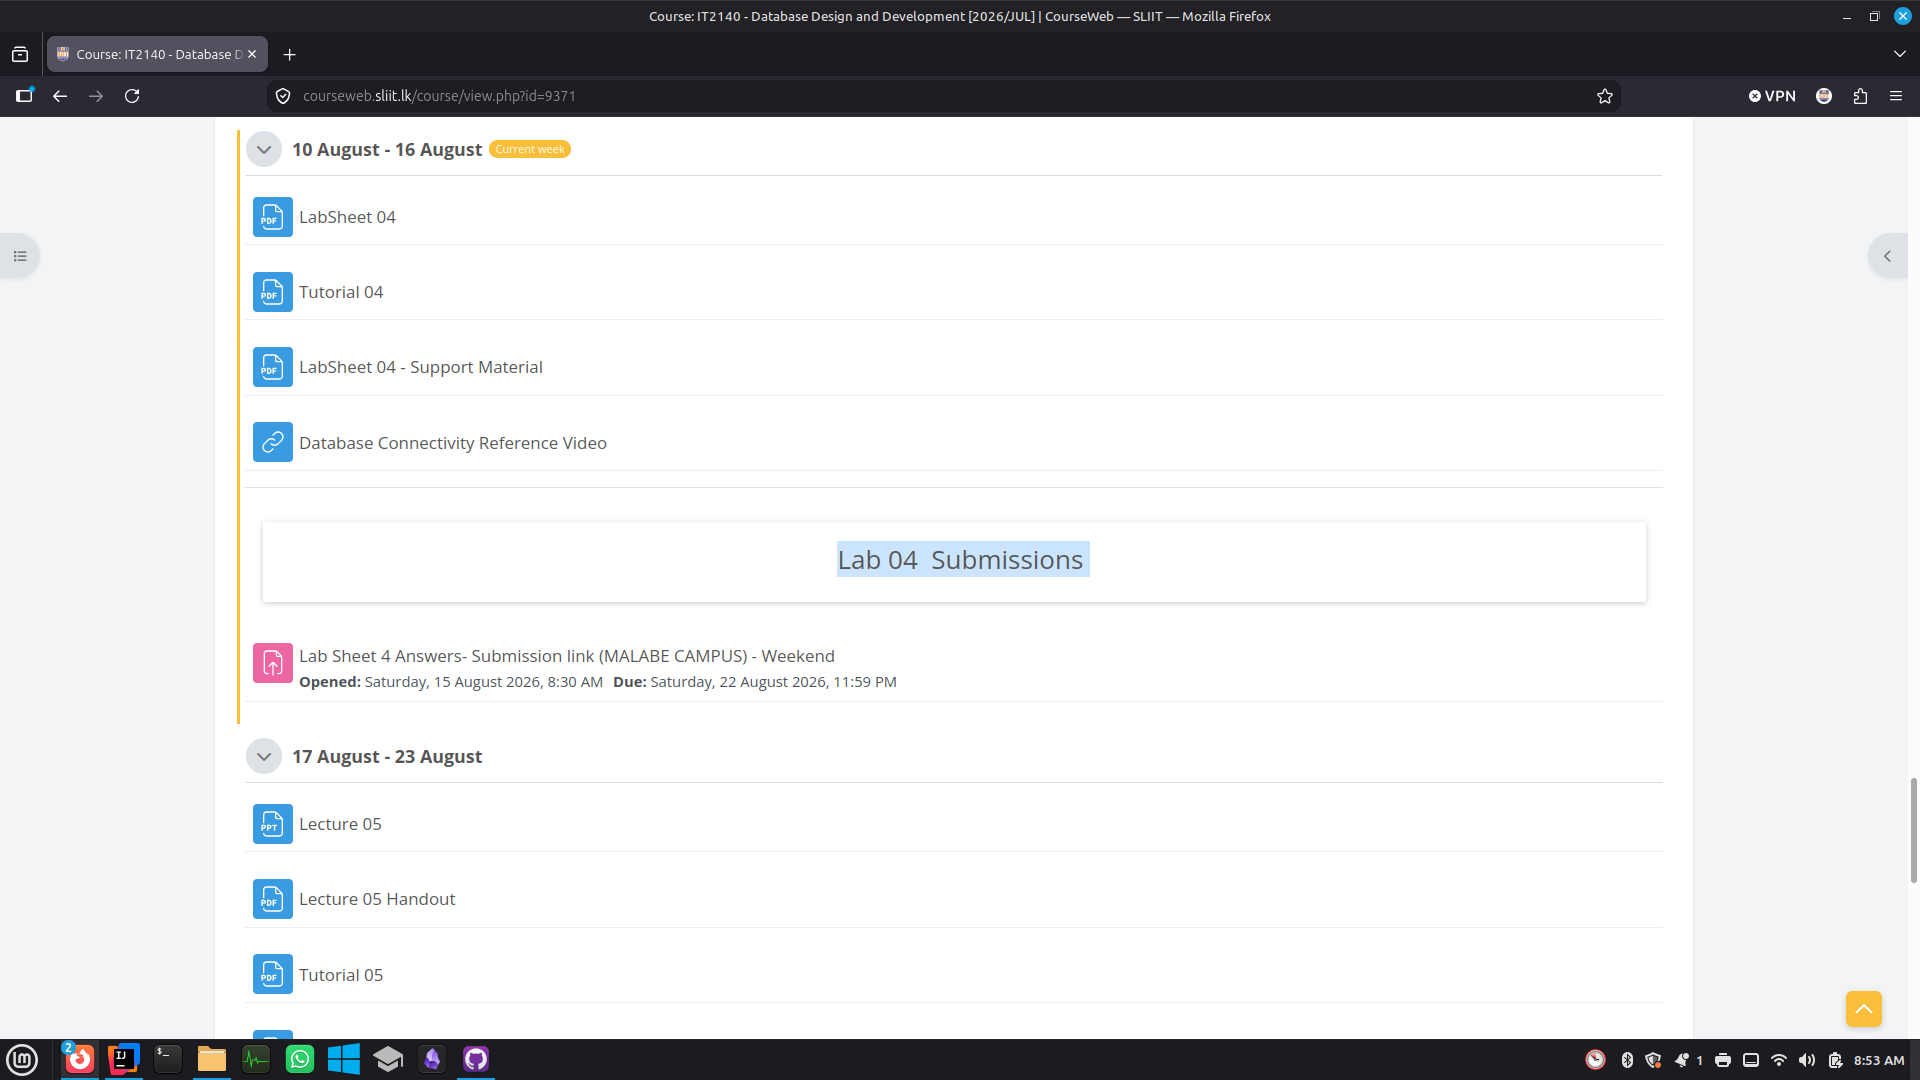
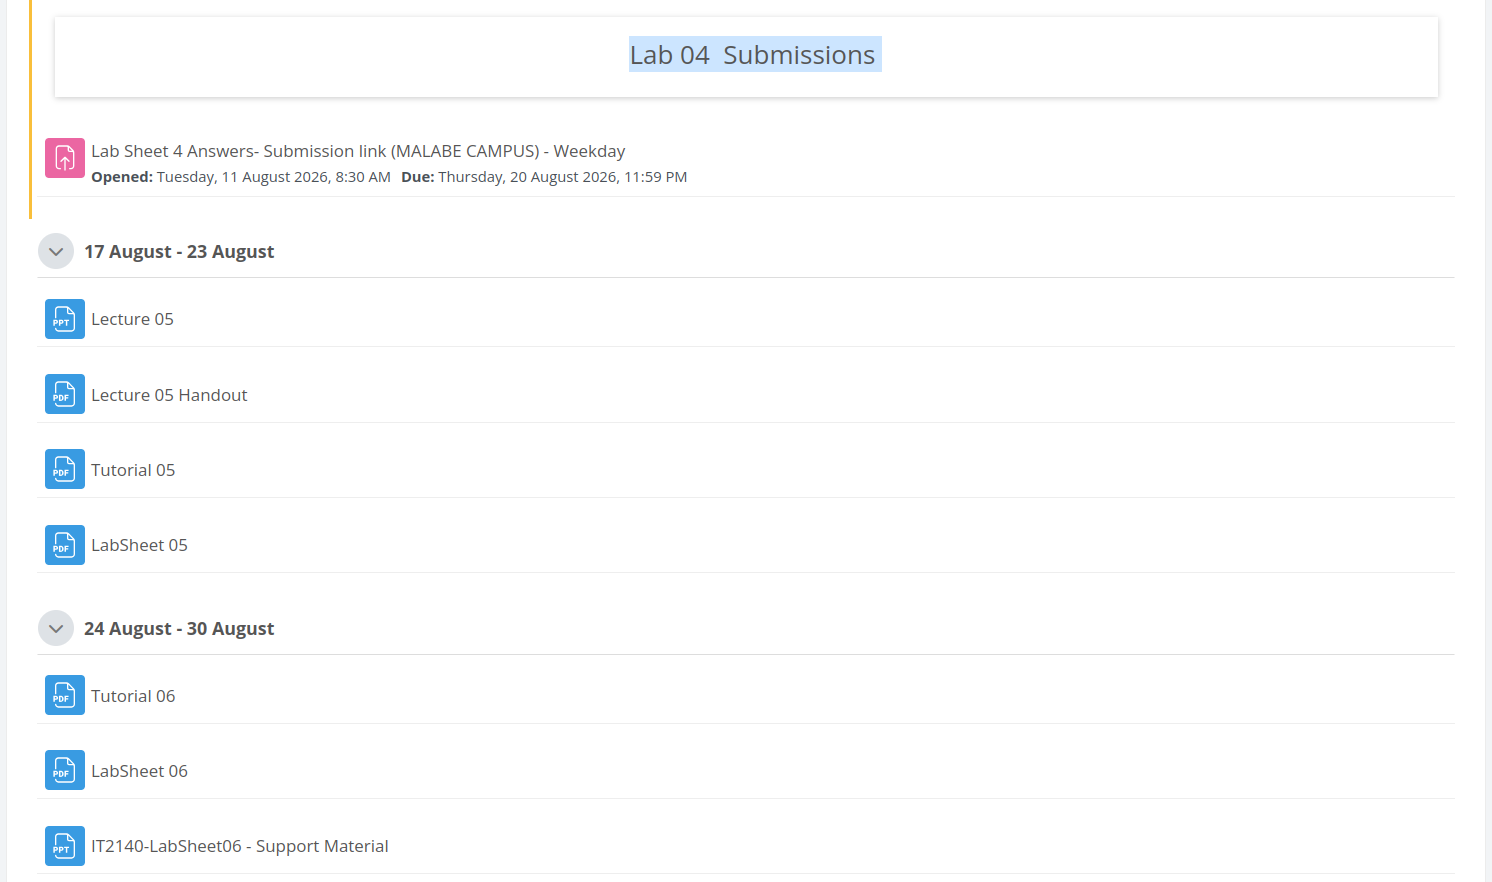
docs: finalize README with comprehensive setup guide and visual assets
Integrated step-by-step installation instructions, configuration details, and resized HTML image embeds for a professional presentation. Added final UI screenshots to the assets directory to guide the user onboarding flow.

diff --git a/README.md b/README.md
@@ -1,32 +1,73 @@
 # SLIIT Courseweb Module Cleaner
 
-A lightweight, context-aware userscript designed to clean up the SLIIT Moodle (Courseweb) interface. It automatically filters out irrelevant modules, assignments, and announcements meant for other campuses or weekday groups, leaving you with a distraction-free dashboard.
+A context-aware userscript designed to optimize the SLIIT Moodle (Courseweb) interface. It automatically filters out irrelevant modules, assignments, and announcements meant for unassigned campuses or batches, providing a distraction-free learning environment.
 
-## Visual Comparison
+## Visual Overview
 
-| Before (Cluttered) | After (Clean) |
+| Before (Cluttered) | After (Cleaned) |
 | :---: | :---: |
-| ![Before Filter](assets/before.png) | ![After Filter](assets/after.png) |
+| <img src="assets/before.png" width="400"> | <img src="assets/after.png" width="400"> |
 
-## Core Features
+## Key Features
 
-* **Smart Filtering:** Hides activities belonging to other centers (Metro, Kandy, Matara, Northern Uni) and Weekday batches.
-* **Preserves Structure:** Keeps general course announcements, shared materials, and section headers strictly visible.
-* **Targeted Whitelisting:** Protects specific Weekend group resources (e.g., `Y2.S1.WE.IT.0301`).
-* **Notice Protector:** Ensures critical alerts, rescheduled labs, and general announcements remain visible.
+* **Smart Filtering:** Hides activities belonging to unselected centers (Metro, Kandy, Matara, Northern Uni) and batch schedules (Weekday/Weekend).
+* **Ghost Mode:** An optional soft-filter that dims irrelevant items (25% opacity) instead of completely removing them from the DOM.
+* **Native UI Integration:** Features a fully integrated, Moodle-themed configuration panel accessible directly from the Courseweb interface.
+* **Notice Protector:** Ensures critical alerts, rescheduled labs, and general shared materials remain strictly visible regardless of filter settings.
+* **Silent Auto-Updates:** Leverages Tampermonkey's background update API to seamlessly deliver new features and bug fixes.
 
-## Installation Instructions
+---
 
-1. Install the [Tampermonkey](https://www.tampermonkey.net/) extension for your browser.
-2. Click **[HERE](https://github.com/dulithdivisekara/sliit-courseweb-cleaner/raw/refs/heads/main/sliit-courseweb-cleaner.user.js)** to install the script.
-3. Click **Install** when the Tampermonkey tab opens.
-4. Refresh your Courseweb page.
+## Installation Guide
 
-## Technical Details
+Follow these steps to deploy the script to your browser:
 
-* **Language:** JavaScript (ES6+)
-* **Dependency:** Tampermonkey API
+### 1. Install a Userscript Manager
+You need a browser extension to run custom scripts. We recommend **Tampermonkey**.
+* [Tampermonkey for Chrome](https://chrome.google.com/webstore/detail/tampermonkey/dhdgffkkebhmkfjojejmpbldmpobfkfo)
+* [Tampermonkey for Firefox](https://addons.mozilla.org/en-US/firefox/addon/tampermonkey/)
+
+### 2. Install the Script
+Once Tampermonkey is active, click the link below to install the Courseweb Cleaner:
+
+**[Install SLIIT Courseweb Cleaner](https://github.com/dulithdivisekara/sliit-courseweb-cleaner/raw/refs/heads/main/sliit-courseweb-cleaner.user.js)**
+
+A Tampermonkey confirmation screen will appear. Click the **Install** button as shown below:
+
+<img src="assets/install-screen.png" width="600" alt="Tampermonkey Install Screen">
+
+### 3. Initialize
+Navigate to [SLIIT Courseweb](https://courseweb.sliit.lk/) and open any module page. The script will initialize automatically and display a one-time welcome screen.
+
+---
+
+## Configuration & Usage
+
+You do not need to edit any code to use this script. All settings are managed through a native UI panel.
+
+### Accessing Settings
+Look for the **Settings** tab anchored to the right side of your Courseweb screen (just below the navigation bar). Click it to open the configuration modal.
+
+<img src="assets/settings-tab.png" width="300" alt="Settings Tab Location">
+
+### Setting Up Your Filter
+1. **Module Filter:** Toggle the entire script on or off.
+2. **Ghost Mode:** Enable this if you prefer to see dimmed versions of filtered links rather than hiding them completely.
+3. **Target Campus:** Select your primary study center.
+4. **Batch Classification:** Choose between Weekday (WD) or Weekend (WE).
+5. **Group ID (Optional):** Enter your specific 4-digit group ID (e.g., `0301`). If left blank, the script will show all materials relevant to your general batch type.
+6. Click **Apply Setup**. The page will automatically reload with your saved preferences.
+
+<img src="assets/config-modal.png" width="350" alt="Configuration Modal">
+
+---
+
+## Troubleshooting & Support
+
+If the script hides something you need, simply open the Settings panel and click **Reset** to restore the default configuration, or toggle the **Module Filter** off.
+
+If you encounter a bug or have a feature request, please [open an issue](https://github.com/dulithdivisekara/sliit-courseweb-cleaner/issues) on this repository.
 
 ## License
 
-This project is licensed under the MIT License - see the [LICENSE](LICENSE) file for details.
+This project is licensed under the MIT License. See the `LICENSE` file for details. Developed and maintained by Dulith Divisekara.
